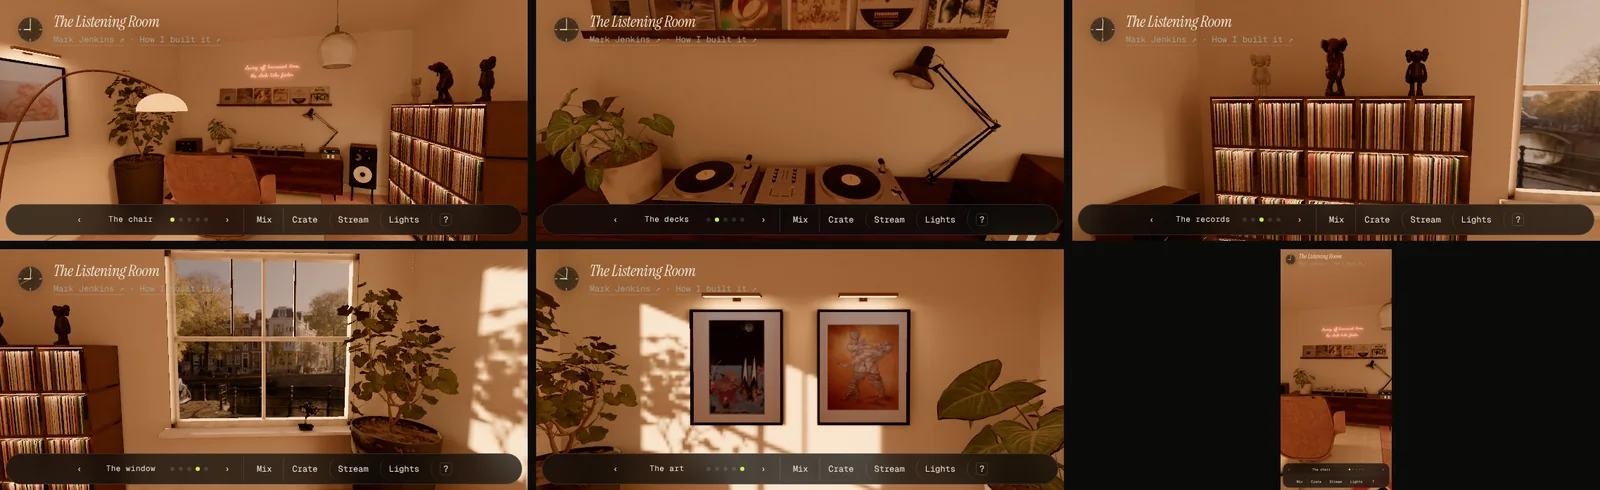
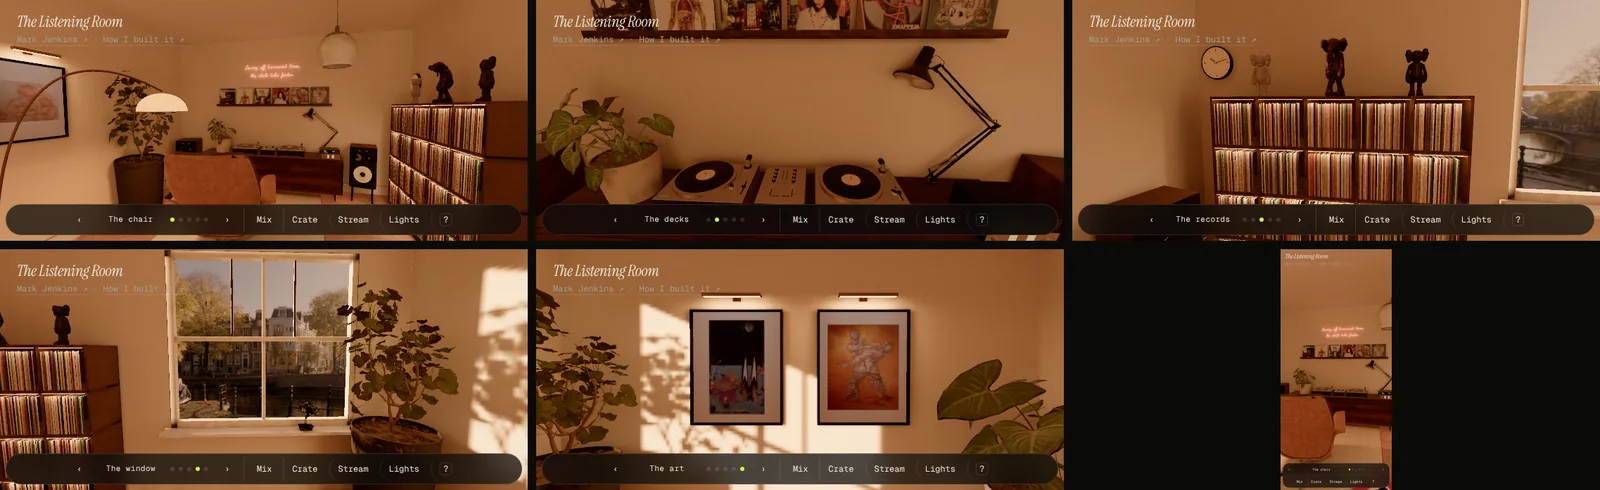
Listening Room post: wall clock, SoundCloud fix, re-shot UI and phone screenshots
Claude-Session: https://claude.ai/code/session_01LommHjWzrAy5NjnEbuJJz3

diff --git a/writing/listening-room.html b/writing/listening-room.html
@@ -253,6 +253,7 @@ vec3 mixLightmaps(vec2 uv) {
             <ul>
                 <li><strong>The data:</strong> my Discogs collection (2,624 releases) with cover art, and a bio for each artist. It's checked against the actual Discogs artist and the record's genre before it's shown, from Wikipedia where the page fits, or Discogs's own profile where it doesn't. Without those checks, "Busy Bee" comes back as an insect.</li>
                 <li><strong>The streamer:</strong> SoundCloud's official player, kept visible as their terms ask.</li>
+                <li><strong>The clock:</strong> on the wall by the records, showing your own local time, second hand sweeping.</li>
                 <li><strong>The site:</strong> plain HTML and three.js, no framework. Hosted on Vercel in London, served at theluckystrike.co.uk/listening-room.</li>
                 <li><strong>Weight:</strong> the room is compressed from 40 MB to 12.6 MB for desktop, and 5.8 MB for phones.</li>
             </ul>
@@ -319,6 +320,7 @@ vec3 mixLightmaps(vec2 uv) {
                     <tr><td>The wooden KAWS figure glowed pale grey</td><td>Sketchfab scans ship as "unlit", ignoring the room's lights</td><td>Rebuilt the materials so the lamps reach them</td></tr>
                     <tr><td>A UK garage record showed GZA's bio</td><td>Discogs credits Genius Cru as "Genius", and Wikipedia's Genius is the Wu-Tang rapper</td><td>Bios now check the real Discogs artist and the record's genre, with Discogs's own profile as a fallback</td></tr>
                     <tr><td>The record shelf read as one dark mass</td><td>Each 1 cm spine was smaller than one pixel of baked light, so the colours blurred together</td><td>LED strips under every shelf, and the hidden sleeve faces dropped so the spines bake six times sharper</td></tr>
+                    <tr><td>Some SoundCloud mixes wouldn't play</td><td>SoundCloud now streams many tracks with DRM, and the embedded player wasn't allowed to use it</td><td>One permission on the player, plus a nudge to tap ▶ when a phone blocks autoplay</td></tr>
                     <tr><td>The mixer's level meters never lit up</td><td>Their glow colour was exported as black, and turning black up is still black</td><td>Set the colours in the browser, with real LED ballistics: fast up, slow down, a peak that holds</td></tr>
                     <tr><td>The new Amsterdam window showed a white van</td><td>The direction maths had the photo mirrored</td><td>Calibrated against the old view, then turned it to face the canal houses</td></tr>
                     <tr><td>Typing DOOM or DILLA fought the D key, which walked me sideways</td><td>Hotkeys and typed words fought over the same letters</td><td>Moved walking to the arrows (and later, back to WASD)</td></tr>
